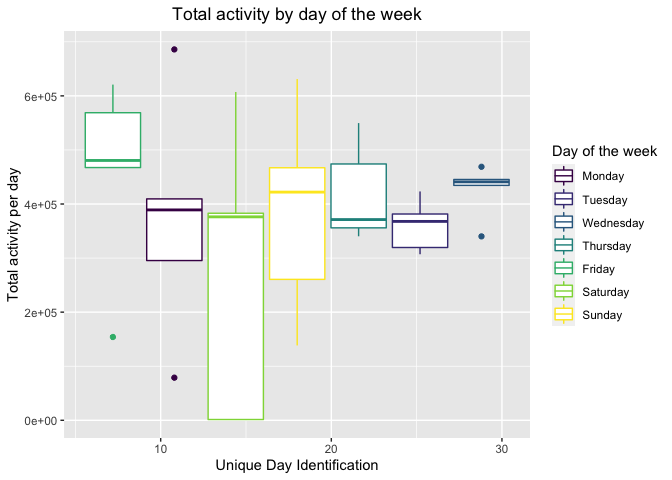
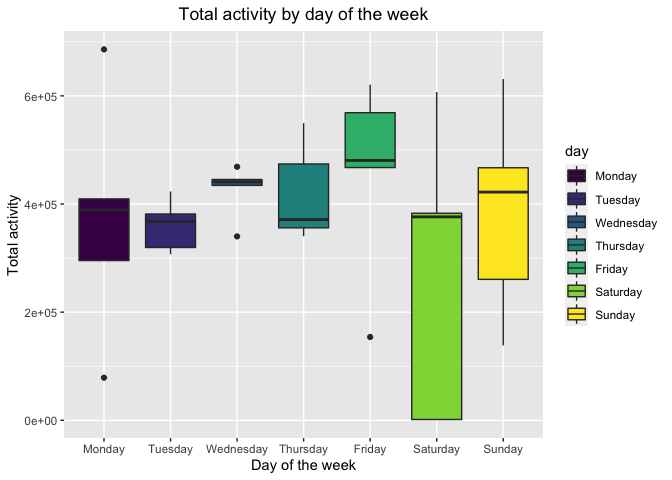
Added Geom Smooth to last plot

diff --git a/p8105_hw3_jdr2191.md b/p8105_hw3_jdr2191.md
@@ -128,7 +128,8 @@ deli. The dataset provides detailed information about the hour and day
 of the week that orders are placed and even tells us the order in which
 products were added to orders.
 
-### How many aisles are there, and which aisles are the most items ordered from?
+**How many aisles are there, and which aisles are the most items ordered
+from?**
 
 ``` r
 aisles = 
@@ -144,9 +145,9 @@ There are 134 aisles. The top four aisles for the most items ordered
 from are fresh vegetables, fresh fruits, packaged vegetables fruits,
 yogurt.
 
-Make a plot that shows the number of items ordered in each aisle,
+**Make a plot that shows the number of items ordered in each aisle,
 limiting this to aisles with more than 10000 items ordered. Arrange
-aisles sensibly, and organize your plot so others can read it.
+aisles sensibly, and organize your plot so others can read it.**
 
 ``` r
 aislesplot = 
@@ -168,9 +169,10 @@ aislesplot %>%
 
 ![](p8105_hw3_jdr2191_files/figure-gfm/aisles_plot-1.png)<!-- -->
 
-Make a table showing the three most popular items in each of the aisles
-“baking ingredients”, “dog food care”, and “packaged vegetables fruits”.
-Include the number of times each item is ordered in your table.
+**Make a table showing the three most popular items in each of the
+aisles “baking ingredients”, “dog food care”, and “packaged vegetables
+fruits”. Include the number of times each item is ordered in your
+table.**
 
 ``` r
 topthree =
@@ -197,9 +199,9 @@ knitr::kable(topthree)
 | packaged vegetables fruits | Organic Raspberries                           |            5546 |
 | packaged vegetables fruits | Organic Blueberries                           |            4966 |
 
-Make a table showing the mean hour of the day at which Pink Lady Apples
-and Coffee Ice Cream are ordered on each day of the week; format this
-table for human readers (i.e. produce a 2 x 7 table).
+**Make a table showing the mean hour of the day at which Pink Lady
+Apples and Coffee Ice Cream are ordered on each day of the week; format
+this table for human readers (i.e. produce a 2 x 7 table).**
 
 ``` r
 appleicecream =
@@ -228,10 +230,16 @@ knitr::kable(appleicecream)
 
 # Problem 2
 
-Data Cleaning Steps: *Format the data to use appropriate variable names;
-*Focus on the “Overall Health” topic *Include only responses from
-“Excellent” to “Poor” *Organize responses as a factor taking levels
-ordered from “Poor” to “Excellent”
+\*\*Data Cleaning Steps:
+
+-   Format the data to use appropriate variable names
+
+-   Focus on the “Overall Health” topic
+
+-   Include only responses from “Excellent” to “Poor”
+
+-   Organize responses as a factor taking levels ordered from “Poor” to
+    “Excellent”\*\*
 
 ``` r
 data("brfss_smart2010")
@@ -246,8 +254,8 @@ brfss_tidy = brfss_smart2010 %>%
 view(brfss_tidy)
 ```
 
-In 2002, which states were observed at 7 or more locations? What about
-in 2010?
+**In 2002, which states were observed at 7 or more locations? What about
+in 2010?**
 
 ``` r
 brfss_2002locations = brfss_tidy %>%
@@ -277,10 +285,10 @@ MA, NC, NJ, PA.
 In 2010, 14 states were observed at 7 or more locations. They are CA,
 CO, FL, MA, MD, NC, NE, NJ, NY, OH, PA, SC, TX, WA.
 
-Construct a dataset that is limited to Excellent responses, and
+**Construct a dataset that is limited to Excellent responses, and
 contains, year, state, and a variable that averages the data\_value
 across locations within a state. Make a “spaghetti” plot of this average
-value over time within a state.
+value over time within a state.**
 
 ``` r
 brfssexcellent_df = brfss_tidy %>%
@@ -309,9 +317,9 @@ brfssexcellent_df2 %>%
 
 ![](p8105_hw3_jdr2191_files/figure-gfm/avg_value_plot-1.png)<!-- -->
 
-Make a two-panel plot showing, for the years 2006, and 2010,
+**Make a two-panel plot showing, for the years 2006, and 2010,
 distribution of data\_value for responses (“Poor” to “Excellent”) among
-locations in NY State.
+locations in NY State.**
 
 ``` r
 brfss20062010_df = brfss_tidy %>%
@@ -339,11 +347,11 @@ view(brfss20062010_df)
 
 # Problem 3
 
-Load, tidy, and otherwise wrangle the data. Your final dataset should
+**Load, tidy, and otherwise wrangle the data. Your final dataset should
 include all originally observed variables and values; have useful
 variable names; include a weekday vs weekend variable; and encode data
 with reasonable variable classes. Describe the resulting dataset
-(e.g. what variables exist, how many observations, etc).
+(e.g. what variables exist, how many observations, etc).**
 
 ``` r
 accel = read_csv("accel_data.csv") %>%
@@ -355,47 +363,43 @@ accel = read_csv("accel_data.csv") %>%
                day_class = ifelse(day %in% c("Saturday", "Sunday"),"weekend", "weekday") %>%
                factor(levels = c("weekday", "weekend"))) %>%
         rename_at(vars(matches("activity_")), ~str_remove(., "activity_")) %>%
-        rename_with(.cols = "1":"1440", function(x){paste0("minute_", x)})
+        rename_with(.cols = "1":"1440", function(x){paste0("minute_", x)}) %>%
+        pivot_longer(
+          cols = starts_with("minute"),
+          names_to = "minute",
+          names_prefix = "minute_",
+          values_to = "activity",
+          values_drop_na = TRUE
+        ) %>%
+        mutate(minute = as.numeric(minute)) %>%
+        rename(activity_count = activity)
 ```
 
-    ## Rows: 35 Columns: 1443
-
-    ## ── Column specification ────────────────────────────────────────────────────────
-    ## Delimiter: ","
-    ## chr    (1): day
-    ## dbl (1442): week, day_id, activity.1, activity.2, activity.3, activity.4, ac...
-
-    ## 
-    ## ℹ Use `spec()` to retrieve the full column specification for this data.
-    ## ℹ Specify the column types or set `show_col_types = FALSE` to quiet this message.
-
-``` r
-view(accel)  
-```
-
-There are 35 observations and 1444 variables in the tidied accelerometer
+There are 50400 observations and 6 variables in the tidied accelerometer
 dataset. The dataset includes data over 35 days (5 weeks). The dataset
-also indicates the day of the week that the measurements come from.
-There are 1,440 “minute” variables that include the accelerometer data
-by minute over a 24 hour period. Lastly, there is a newly added variable
-day\_class that indicates if the day of the week is a weekday or a
-weekend.
+also indicates the day of the week that the measurements come from and
+an activity count for every minute in a 24-hour period. Lastly, there is
+a newly added variable day\_class that indicates if the day of the week
+is a weekday or a weekend.
 
-Traditional analyses of accelerometer data focus on the total activity
+**Traditional analyses of accelerometer data focus on the total activity
 over the day. Using your tidied dataset, aggregate accross minutes to
 create a total activity variable for each day, and create a table
-showing these totals. Are any trends apparent?
+showing these totals. Are any trends apparent?**
 
 ``` r
 accelagg = accel %>%
-  rowwise() %>% 
-  mutate(daysum = sum(c_across("minute_1":"minute_1440"), na.rm = T)) %>%
-  subset(select = c(day_id, day, daysum)) 
+  group_by(day_id, day) %>%
+  summarize(agg_sum = sum(activity_count))
+```
 
+    ## `summarise()` has grouped output by 'day_id'. You can override using the `.groups` argument.
+
+``` r
 knitr::kable(accelagg)
 ```
 
-| day\_id | day       |    daysum |
+| day\_id | day       |  agg\_sum |
 |--------:|:----------|----------:|
 |       1 | Friday    | 480542.62 |
 |       2 | Monday    |  78828.07 |
@@ -437,9 +441,9 @@ knitr::kable(accelagg)
 view(accelagg)
 
 accelagg %>%
-  ggplot(aes(x = day_id, y = daysum, group = day), color = factor(day)) + 
-  geom_boxplot(aes(color = day)) +
-  labs(x = "Unique Day Identification", y = "Total activity per day", 
+  ggplot(aes(x = day, y = agg_sum, group = day), color = factor(day)) + 
+  geom_boxplot(aes(fill = day)) +
+  labs(x = "Day of the week", y = "Total activity", 
        col = "Day of the week") +
   ggtitle("Total activity by day of the week") +
   theme(plot.title = element_text(hjust = 0.5)) 
@@ -452,26 +456,14 @@ better observe trends. Using the boxplots, we see that the patient is
 most active on Fridays. His activity is highly variable on Saturdays and
 not very variable on Wednesdays.
 
-Accelerometer data allows the inspection activity over the course of the
-day. Make a single-panel plot that shows the 24-hour activity time
+**Accelerometer data allows the inspection activity over the course of
+the day. Make a single-panel plot that shows the 24-hour activity time
 courses for each day and use color to indicate day of the week. Describe
-in words any patterns or conclusions you can make based on this graph.
+in words any patterns or conclusions you can make based on this graph.**
 
 ``` r
-accelplot = accel %>%
-  pivot_longer(
-    cols = starts_with("minute"),
-    names_to = "minute",
-    names_prefix = "minute_",
-    values_to = "activity",
-    values_drop_na = TRUE
-  ) %>%
-  mutate(minute = as.numeric(minute))
-
-view(accelplot)
-
-accelplot %>%
-  ggplot(aes(x = minute, y = activity, group = day)) + 
+accel %>%
+  ggplot(aes(x = minute, y = activity_count, group = day)) + 
   geom_line(aes(group = day, color = day)) +
   geom_point(aes(group = day, color = day), size = .4, alpha = .5) +
   labs(x = "Minute", y = "Total accelerometer activity", col = "Day of week") +
